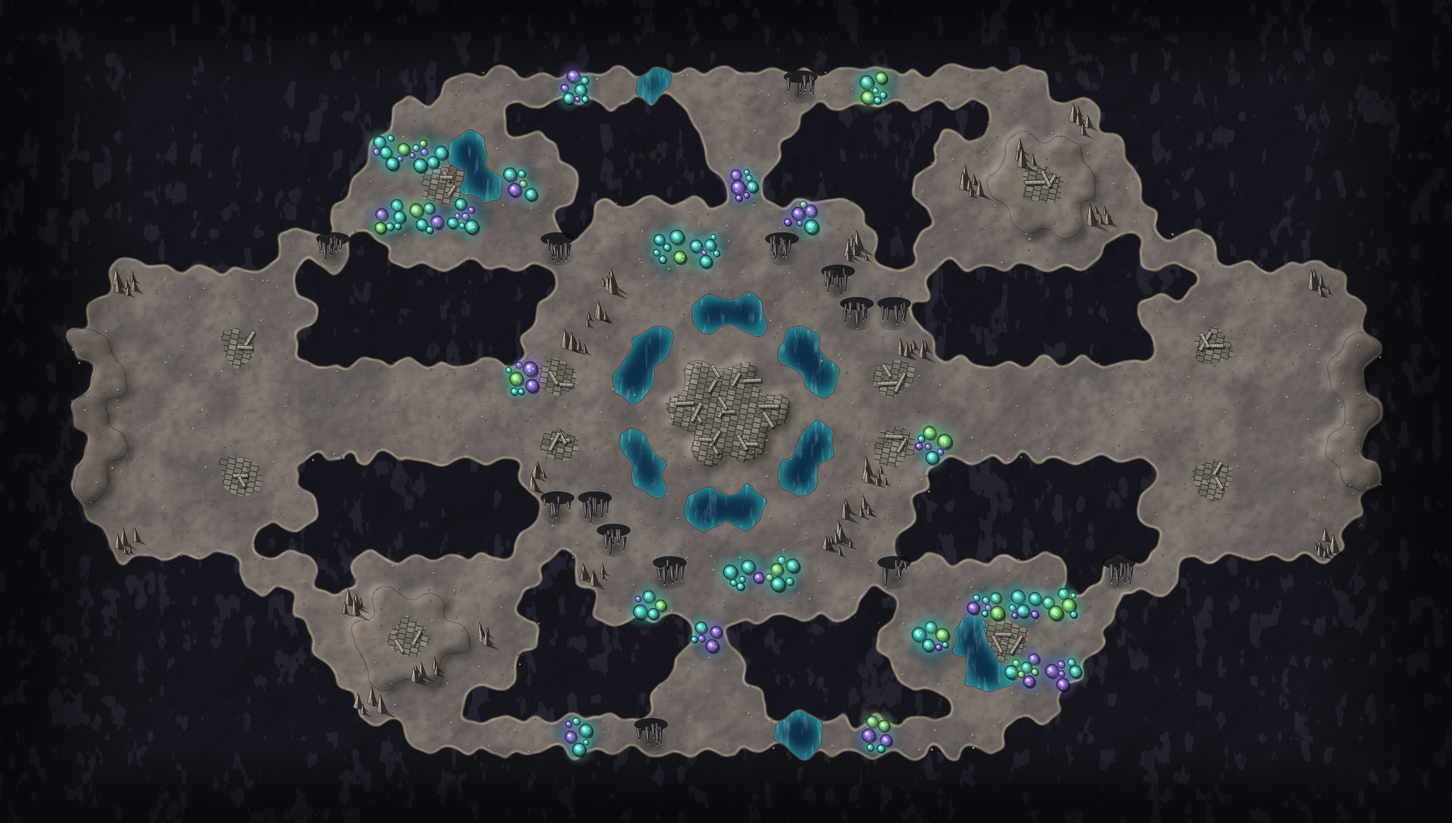
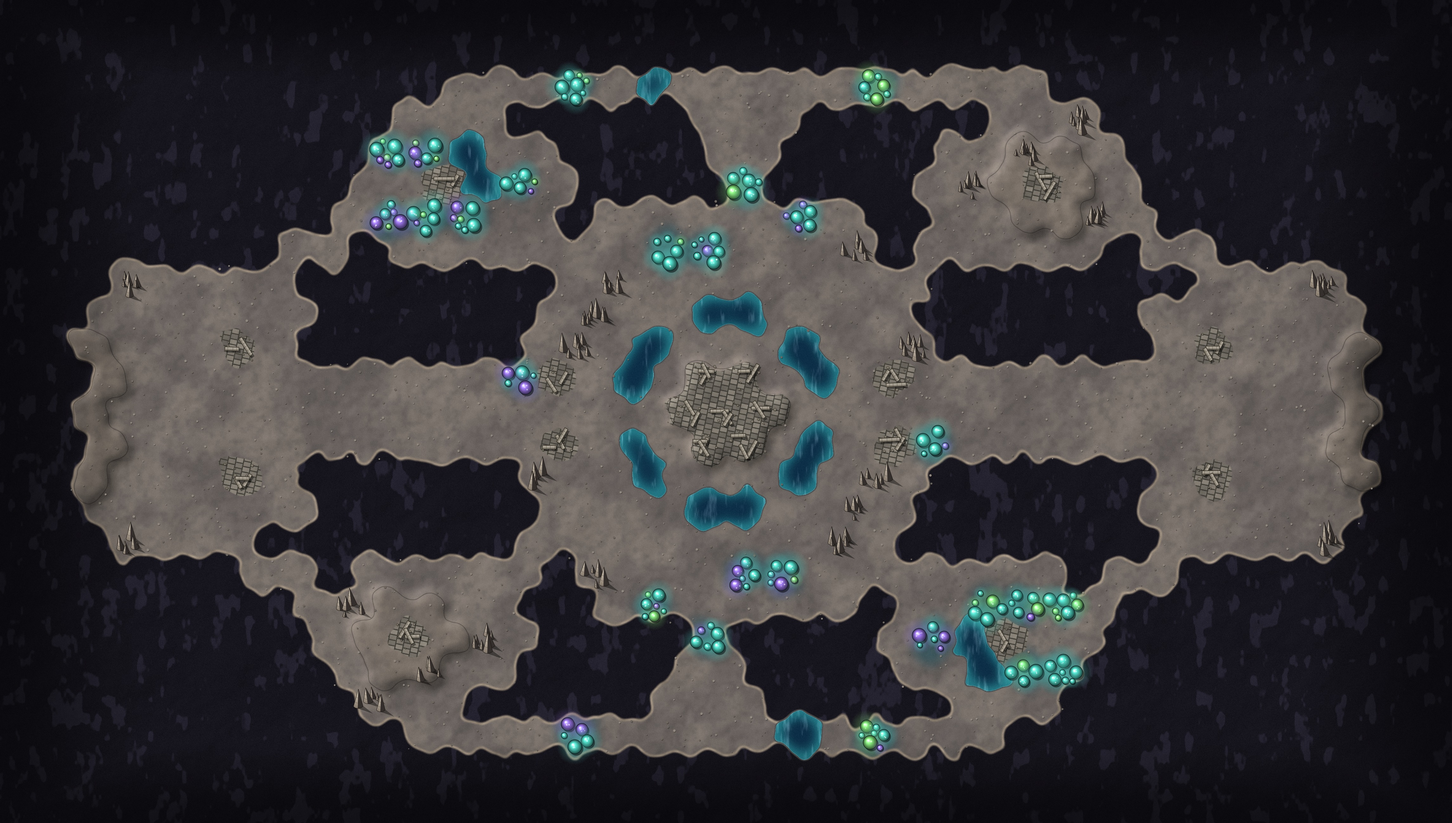
Add siege mode and the stonewatch scenario; remove stalactites

diff --git a/src/engine.js b/src/engine.js
@@ -26,8 +26,6 @@ export const TERRAIN = {
   water:  { name: 'Water',  cost: 2, cover: -1 },         // difficult, exposed, weakens attacks
   // narrow: only one-hex creatures fit between them. Big ones can't stand there (flyers and burrowers may pass).
   spikes: { name: 'Stalagmites', cost: 2, cover: 1, narrow: true },
-  // low: spikes hang from the roof. Walkers pass underneath as on open ground; flyers can't get through.
-  stalactites: { name: 'Stalactites', cost: 1, cover: 0, low: true },
   // Lava: nobody can stand in it or walk through it, but it doesn't block sight, and flyers cross it
   // (even under a cave ceiling). Burrowers pass beneath.
   lava:   { name: 'Lava',   cost: Infinity, cover: 0 },
@@ -80,7 +78,7 @@ const glides = (cls) => !!(CLASSES[cls].fly || CLASSES[cls].burrow);
 // Can such a unit pass with its body over these hexes? Off-board never; rock stops a flyer under a ceiling.
 const canGlide = (map, cls, hexes) => hexes.every((h) => {
   const c = map.cells[key(h.q, h.r)];
-  return c && (CLASSES[cls].burrow || !(TERRAIN[c.t].low || (map.ceiling && c.t === 'rock')));
+  return c && (CLASSES[cls].burrow || !(map.ceiling && c.t === 'rock'));
 });
 
 // ---- Creature sizes ----
@@ -127,7 +125,7 @@ export function fits(state, unit, at = unit) {
   let lo = Infinity, hi = -Infinity;
   for (const c of footprint(unit, at)) {
     const cell = state.map.cells[key(c.q, c.r)];
-    if (!cell || impassable(cell) || (TERRAIN[cell.t].narrow && isBig(unit)) || (TERRAIN[cell.t].low && CLASSES[unit.cls].fly)) return false;
+    if (!cell || impassable(cell) || (TERRAIN[cell.t].narrow && isBig(unit))) return false;
     const other = unitAt(state, c);
     if (other && other.id !== unit.id) return false;
     lo = Math.min(lo, cell.e); hi = Math.max(hi, cell.e);
@@ -139,12 +137,21 @@ export function fits(state, unit, at = unit) {
 // zoc (melee units stop enemies that step next to them).
 //
 // mode: 'eliminate' (default) — destroy the other team.
+//       'siege' — asymmetric. One team defends (map.siege.defender, default 1 = Red) and starts
+//       owning the map's control points (the keep). Points change hands as in 'hold', but only the
+//       attacker scores: 1 per point it owns at the end of each of its turns. The attacker wins on
+//       reaching `target` (map.siege.target, default 2) or by wiping the defenders out; the defender
+//       wins by wiping the attackers out or by lasting to the round limit (map.siege.rounds).
+//       A map that has a `siege` entry is played this way unless another mode is asked for.
 //       'hold' — control points. At the end of each team's turn, any point with a unit standing on
 //       it goes to that unit's team and stays theirs until an enemy stands on it; the team whose
 //       turn is ending then scores 1 per point it owns. First to `target` wins (default 2 per
 //       point); wiping the enemy out still wins too. Points come from map.objectives, or are
 //       placed automatically along the line where the two armies meet.
-export function createGame(map, { maxRounds = 0, fog = false, counters = true, zoc = true, mode = 'eliminate', target = 0, dragons = 'none', monsters, wild } = {}) {
+export function createGame(map, { maxRounds = 0, fog = false, counters = true, zoc = true, mode, target = 0, dragons = 'none', monsters, wild } = {}) {
+  if (!mode) mode = map.siege ? 'siege' : 'eliminate';
+  const siege = mode === 'siege' ? { defender: 1, target: 2, ...(map.siege || {}) } : null;
+  if (!maxRounds && siege?.rounds) maxRounds = siege.rounds;
   if (!maxRounds) {                                // 30, or longer when the armies start far apart
     const mid = (t, a) => map.spawns[t].reduce((sum, p) => sum + p[a], 0) / Math.max(1, map.spawns[t].length);
     const apart = dist(hexRound(mid(0, 'q'), mid(0, 'r')), hexRound(mid(1, 'q'), mid(1, 'r')));
@@ -225,14 +232,16 @@ export function createGame(map, { maxRounds = 0, fog = false, counters = true, z
   }
   for (const u of units) if (u.team === WILD) { u.hq = u.q; u.hr = u.r; }     // home: the middle of its territory
   let objectives = [];
-  if (mode === 'hold') {
+  if (mode === 'hold' || siege) {
     const placed = (map.objectives || []).filter((o) => { const c = cellAt(map, o); return c && !impassable(c); });
     objectives = placed.length ? placed : defaultObjectives(map);
+    if (siege && !placed.length) objectives = objectives.slice(0, 1);
   }
   // roster: both starting line-ups (public knowledge, even under fog).
   const roster = units.map(({ id, team, cls, q, r, o }) => ({ id, team, cls, q, r, o }));
   return { map, units, roster, turn: 0, round: 1, winner: null, maxRounds, fog, counters, zoc,
-    mode, objectives, owners: objectives.map(() => null), score: [0, 0], target: target || 2 * objectives.length };
+    mode, objectives, owners: objectives.map(() => (siege ? siege.defender : null)), score: [0, 0],
+    defender: siege ? siege.defender : null, target: target || (siege ? siege.target : 2 * objectives.length) };
 }
 
 export const clone = (s) => ({ ...s, units: s.units.map((u) => ({ ...u })), owners: s.owners.slice(), score: s.score.slice() });
@@ -773,16 +782,17 @@ export function applyAction(state, a) {
   if (a.type === 'endTurn') {
     let ev = null;
     const ending = state.turn;
-    if (state.mode === 'hold' && ending === WILD) {      // a monster squatting on a point makes it nobody's
+    const points = state.mode === 'hold' || state.mode === 'siege';
+    if (points && ending === WILD) {      // a monster squatting on a point makes it nobody's
       state.objectives.forEach((o, i) => { if (unitAt(state, o)?.team === WILD) state.owners[i] = null; });
-    } else if (state.mode === 'hold') {          // returns {team, captured: [{i, team}], scored}
+    } else if (points) {                         // returns {team, captured: [{i, team}], scored}
       ev = { team: state.turn, captured: [], scored: 0 };
       state.objectives.forEach((o, i) => {
         const holder = unitAt(state, o);
         if (holder && holder.team === WILD) state.owners[i] = null;
         else if (holder && state.owners[i] !== holder.team) { state.owners[i] = holder.team; ev.captured.push({ i, team: holder.team }); }
       });
-      ev.scored = state.owners.filter((o) => o === state.turn).length;
+      ev.scored = state.turn === state.defender ? 0 : state.owners.filter((o) => o === state.turn).length;   // in a siege only the attacker scores
       state.score[state.turn] += ev.scored;
       if (state.score[state.turn] >= state.target) { state.winner = state.turn; return ev; }
     }
@@ -797,6 +807,7 @@ export function applyAction(state, a) {
       if (CLASSES[u.cls].regen) u.hp = Math.min(CLASSES[u.cls].hp, u.hp + CLASSES[u.cls].regen);
     }
     if (state.round > state.maxRounds) {         // out of time: on points if there are any, else a draw
+      if (state.mode === 'siege') { state.winner = state.defender; return ev; }      // the keep held out
       const [s0, s1] = state.score;
       state.winner = s0 > s1 ? 0 : s1 > s0 ? 1 : 'draw';
     }
@@ -912,7 +923,10 @@ export function evaluate(state, team) {
   let v = 0;
   for (const u of state.units) v += (u.team === team ? 1 : u.team === WILD ? -0.25 : -1) * (4 + 6 * u.hp / CLASSES[u.cls].hp) * (CLASSES[u.cls].value || 1);
   if (state.unseen) v += (state.observer === team ? -1 : 1) * state.unseen * 8;   // enemies we can't see still count
-  if (state.mode === 'hold') {                   // points on the board, and points already banked
+  if (state.mode === 'siege') {                  // the attacker wants points and has a clock against it
+    const att = 1 - state.defender, side = team === att ? 1 : -1;
+    v += side * (state.score[att] * 12 + state.owners.filter((o) => o === att).length * 8 - 14 * state.round / state.maxRounds);
+  } else if (state.mode === 'hold') {            // points on the board, and points already banked
     v += (state.score[team] - state.score[1 - team]) * 5;
     for (const o of state.owners) v += o === team ? 4 : o === 1 - team ? -4 : 0;
   }

diff --git a/src/main.js b/src/main.js
@@ -220,14 +220,17 @@ function refresh() {
   $('undo').title = state.fog ? 'Not available under fog of war (a move may reveal enemies)' : '';
   if (state.winner !== null) {
     b.className = 'over';
-    const onPoints = state.mode === 'hold' && state.winner !== 'draw' && state.units.some((u) => u.team !== state.winner);
+    const heldOut = state.mode === 'siege' && state.winner === state.defender && state.units.some((u) => u.team !== state.winner);
+    const onPoints = (state.mode === 'hold' || state.mode === 'siege') && !heldOut && state.winner !== 'draw' && state.units.some((u) => u.team !== state.winner);
     b.textContent = state.winner === 'draw' ? 'Draw — round limit reached'
+      : heldOut ? `${TEAM[state.winner]} wins — the keep held out!`
       : `${TEAM[state.winner]} wins${onPoints ? ` on points, ${state.score[state.winner]}–${state.score[1 - state.winner]}` : ''}!`;
   } else {
     b.className = 't' + state.turn;
     const who = state.turn === E.WILD ? 'neutral monsters' : ais[state.turn] ? AIS[$('ctl' + state.turn).value].label + (thinking ? ', thinking\u2026' : '') : 'your move';
     b.textContent = `Round ${state.round}/${state.maxRounds} — ${TEAM[state.turn]} (${who})`
-      + (state.mode === 'hold' ? `  ·  Blue ${state.score[0]} – ${state.score[1]} Red, first to ${state.target}` : '');
+      + (state.mode === 'hold' ? `  ·  Blue ${state.score[0]} – ${state.score[1]} Red, first to ${state.target}` : '')
+      + (state.mode === 'siege' ? `  ·  ${TEAM[1 - state.defender]} ${state.score[1 - state.defender]}/${state.target} to take the keep · ${TEAM[state.defender]} must hold to round ${state.maxRounds}` : '');
   }
   $('info').textContent = infoText(me);
 }
@@ -275,7 +278,7 @@ function infoText(me) {
   const point = (view.objectives || []).find((o) => o.q === hover.q && o.r === hover.r);
   const tname = t.narrow && !state.map.ceiling ? 'Standing stones' : t.name;     // above ground they are menhirs
   const lines = [`${tname} · height ${c.e} · ` +
-    (t.cost === Infinity ? (c.t === 'lava' ? 'impassable on foot; flyers cross; does not block sight' : 'impassable, blocks sight') : `move cost ${t.cost} · cover ${t.cover}`) + (t.narrow ? ' · too tight for big creatures' : '') + (t.low ? ' · flyers cannot pass' : '')];
+    (t.cost === Infinity ? (c.t === 'lava' ? 'impassable on foot; flyers cross; does not block sight' : 'impassable, blocks sight') : `move cost ${t.cost} · cover ${t.cover}`) + (t.narrow ? ' · too tight for big creatures' : '')];
   if (point) {
     lines.push(`Control point — ${point.owner === null ? 'unclaimed' : 'held by ' + TEAM[point.owner]}`
       + (editing ? '' : '. End a turn standing here to take it.'));
@@ -537,7 +540,8 @@ async function perform(a) {
         state.objectives.forEach((o, i) => {
           if (state.owners[i] === ev.team) view.floats.push({ q: o.q, r: o.r, text: '+1', t0: performance.now() });
         });
-        log(`${TEAM[ev.team]} scores ${ev.scored} — Blue ${state.score[0]}, Red ${state.score[1]} (first to ${state.target})`);
+        log(state.mode === 'siege' ? `${TEAM[ev.team]} holds the keep: ${state.score[ev.team]} of ${state.target}`
+          : `${TEAM[ev.team]} scores ${ev.scored} — Blue ${state.score[0]}, Red ${state.score[1]} (first to ${state.target})`);
       }
       if (ev.captured.length || ev.scored) await sleep(350 / speed());
     }
@@ -662,6 +666,8 @@ async function openSavedMap(name) {
   }
   custom = data;
   R.backdrop = bd;
+  // A siege map is played as a siege; leaving one goes back to plain elimination.
+  if (data.siege) $('mode').value = 'siege'; else if ($('mode').value === 'siege') $('mode').value = 'eliminate';
   setOverlay(data.backdrop?.overlay ?? 0.4);
   if (bd) setView(true);
   store('map', name);
@@ -694,7 +700,7 @@ $('mapSel').addEventListener('change', (ev) => {
 // ---- Editor ----
 
 const BRUSHES = [
-  ['Terrain', [['Grass', 't:grass'], ['Forest', 't:forest'], ['Ruins', 't:ruins'], ['Stalagmites / stones', 't:spikes'], ['Stalactites', 't:stalactites'], ['Water', 't:water'], ['Lava', 't:lava'], ['Rock', 't:rock']]],
+  ['Terrain', [['Grass', 't:grass'], ['Forest', 't:forest'], ['Ruins', 't:ruins'], ['Stalagmites / stones', 't:spikes'], ['Water', 't:water'], ['Lava', 't:lava'], ['Rock', 't:rock']]],
   ['Height', [['0', 'e:0'], ['1', 'e:1'], ['2', 'e:2'], ['3', 'e:3']]],
   ['Markers (click to place or remove)', [['Blue spawn', 'spawn:0'], ['Red spawn', 'spawn:1'], ['Neutral monster', 'spawn:2'], ['Control point', 'objective']]],
   ['Board shape', [['Add hex', 'add'], ['Remove hex', 'remove']]],

diff --git a/arena.js b/arena.js
@@ -1,10 +1,13 @@
 // Headless AI-vs-AI tournament.
-//   node arena.js <aiA> <aiB> [--games 20] [--seed 1] [--map name-or-path] [--fog] [--no-counters] [--no-zoc] [--hold] [--dragons] [--monsters | --no-monsters] [--wild | --no-wild] [--size 6]
+//   node arena.js <aiA> <aiB> [--games 20] [--seed 1] [--map name-or-path] [--fog] [--no-counters] [--no-zoc] [--hold | --siege | --eliminate] [--dragons] [--monsters | --no-monsters] [--wild | --no-wild] [--size 6]
 // Each map is played twice with sides swapped, so first-move and terrain advantage cancel out.
 // --map uses a saved map (maps/<name>.json) for every game instead of generated ones.
 // --fog plays with fog of war: each AI is only shown what its own team can see.
 // --no-counters and --no-zoc switch off counter-attacks and zones of control.
-// --hold plays the hold-the-points objective instead of elimination.
+// --hold plays the hold-the-points objective instead of elimination; --siege plays any map as a siege
+// (Red defends). A map with its own siege settings is played as a siege unless --eliminate or --hold is given.
+// The last line reports wins by side (Blue / Red), whoever played them: with the same AI on both
+// sides, that is how lopsided the scenario is.
 // --dragons gives each side a Dragon as well.
 // --monsters gives each side the cave monsters (spider, bats, worm) on any map; --no-monsters removes
 // them from a map that has its own. Default: whatever the map says.
@@ -16,10 +19,10 @@ import { AIS } from './src/ai/index.js';
 
 const args = process.argv.slice(2);
 const opt = (name, def) => { const i = args.indexOf('--' + name); return i >= 0 ? +args[i + 1] : def; };
-const SWITCHES = ['--fog', '--no-counters', '--no-zoc', '--hold', '--dragons', '--monsters', '--no-monsters', '--wild', '--no-wild'];  // flags that take no value
+const SWITCHES = ['--fog', '--no-counters', '--no-zoc', '--hold', '--siege', '--eliminate', '--dragons', '--monsters', '--no-monsters', '--wild', '--no-wild'];  // flags that take no value
 const fog = args.includes('--fog');
 const rules = { fog, counters: !args.includes('--no-counters'), zoc: !args.includes('--no-zoc'),
-  mode: args.includes('--hold') ? 'hold' : 'eliminate', dragons: args.includes('--dragons') ? 'both' : 'none',
+  mode: args.includes('--hold') ? 'hold' : args.includes('--siege') ? 'siege' : args.includes('--eliminate') ? 'eliminate' : undefined, dragons: args.includes('--dragons') ? 'both' : 'none',
   monsters: args.includes('--no-monsters') ? [] : args.includes('--monsters') ? PACKS.cave : undefined,
   wild: args.includes('--no-wild') ? [] : args.includes('--wild') ? 'auto' : undefined };
 const [nameA, nameB] = args.filter((a, i) => !a.startsWith('--') && !((args[i - 1] || '').startsWith('--') && !SWITCHES.includes(args[i - 1])));
@@ -52,6 +55,7 @@ export function playGame(map, makers, game = 0) {
 }
 
 const score = { [nameA]: 0, [nameB]: 0, draw: 0 };
+const side = [0, 0];
 const time = [0, 0];
 let rounds = 0;
 for (let g = 0; g < games; g++) {
@@ -60,6 +64,7 @@ for (let g = 0; g < games; g++) {
   const map = mapData ? mapFromData(mapData) : generateMap(seed0 + (g >> 1), size);
   const res = playGame(map, names.map((n) => AIS[n]), g);
   score[res.winner === 'draw' ? 'draw' : names[res.winner]]++;
+  if (res.winner !== 'draw') side[res.winner]++;
   rounds += res.rounds;
   time[0] += res.ms[swap ? 1 : 0];
   time[1] += res.ms[swap ? 0 : 1];
@@ -68,3 +73,4 @@ console.log(`${games} games${fog ? ' with fog of war' : ''}, avg ${(rounds / gam
 console.log(`  ${nameA}: ${score[nameA]} wins  (${(time[0] / games).toFixed(0)} ms thinking/game)`);
 if (nameA !== nameB) console.log(`  ${nameB}: ${score[nameB]} wins  (${(time[1] / games).toFixed(0)} ms thinking/game)`);
 console.log(`  draws: ${score.draw}`);
+console.log(`  by side: Blue ${side[0]}, Red ${side[1]}`);

diff --git a/src/paint.js b/src/paint.js
@@ -454,33 +454,6 @@ export function paintBackdrop(map, { hexPx = 140, seed = 7, biome = 'meadow' } =
 
   }
 
-  // Stalactites: points hanging from the roof, seen from above — a dark patch of ceiling at the
-  // top of the hex with spikes dropping from it toward the viewer, and their shadow on the floor.
-  for (const c of sorted) {
-    if (c.t !== 'stalactites') continue;
-    const [cx, cy] = centre(c);
-    const sh = ctx.createRadialGradient(cx, cy + s * 0.25, s * 0.05, cx, cy + s * 0.25, s * 0.8);
-    sh.addColorStop(0, 'rgba(0,0,0,0.42)'); sh.addColorStop(1, 'rgba(0,0,0,0)');
-    ctx.fillStyle = sh; ctx.beginPath(); ctx.ellipse(cx, cy + s * 0.25, s * 0.8, s * 0.5, 0, 0, 6.3); ctx.fill();
-    const hang = [];
-    for (let i = 0, n = 7 + Math.floor(rnd() * 3); i < n; i++) hang.push([cx + (rnd() - 0.5) * s * 1.25, cy - s * (0.62 - rnd() * 0.5), s * (0.07 + rnd() * 0.07), s * (0.35 + rnd() * 0.5)]);
-    hang.sort((p, q) => p[1] - q[1]);
-    ctx.fillStyle = 'rgba(14,13,18,0.82)';                        // the ceiling they hang from
-    ctx.beginPath(); ctx.ellipse(cx, cy - s * 0.5, s * 0.78, s * 0.3, 0, 0, 6.3); ctx.fill();
-    for (const [x, y, w, h] of hang) {
-      const tipX = x + (rnd() - 0.5) * w, tipY = y + h;
-      ctx.fillStyle = 'rgb(46,42,48)';                            // shaded side
-      ctx.beginPath(); ctx.moveTo(x, y - w * 0.3); ctx.lineTo(x + w, y); ctx.lineTo(tipX, tipY); ctx.closePath(); ctx.fill();
-      const lit = ctx.createLinearGradient(x, y, tipX, tipY);
-      lit.addColorStop(0, 'rgb(92,84,86)'); lit.addColorStop(1, 'rgb(196,186,172)');
-      ctx.fillStyle = lit;                                        // lit side, palest at the wet tip
-      ctx.beginPath(); ctx.moveTo(x - w, y); ctx.lineTo(x, y - w * 0.3); ctx.lineTo(tipX, tipY); ctx.closePath(); ctx.fill();
-      ctx.strokeStyle = 'rgba(8,6,10,0.85)'; ctx.lineWidth = 1.2; ctx.lineJoin = 'round';
-      ctx.beginPath(); ctx.moveTo(x - w, y); ctx.lineTo(tipX, tipY); ctx.lineTo(x + w, y); ctx.stroke();
-      ctx.fillStyle = 'rgba(190,235,255,0.85)'; ctx.beginPath(); ctx.arc(tipX, tipY + 1.5, Math.max(1, w * 0.16), 0, 6.3); ctx.fill();   // a drip
-    }
-  }
-
   // Trees, back to front. A few large crowns per hex with smaller ones in the gaps; each crown
   // is built from overlapping leaf clumps, darkest at the bottom-right and lightest top-left.
   const trees = [];

diff --git a/src/ai/greedy.js b/src/ai/greedy.js
@@ -27,7 +27,7 @@ function scoreOption(state, u, o, enemies, field) {
     }
     s -= spell.cooldown * 2;                                          // don't burn a long cooldown for a marginal gain
   }
-  if (state.mode === 'hold') {                                        // ending the turn on a point we don't own takes it
+  if (state.mode === 'hold' || state.mode === 'siege') {              // ending the turn on a point we don't own takes it
     const on = footprint(u, o);                                       // big creatures hold a point with any hex
     const i = state.objectives.findIndex((p) => on.some((c) => c.q === p.q && c.r === p.r));
     if (i >= 0 && state.owners[i] !== u.team) s += state.owners[i] === null ? 30 : 42;
@@ -43,10 +43,17 @@ function scoreOption(state, u, o, enemies, field) {
 export function bestAction(state, noise = 0, rng = Math.random, goals = []) {
   const enemies = state.units.filter((u) => u.team !== state.turn);
   // Advance on enemies, on fog goals, and on any control point that isn't ours yet.
-  const points = state.mode === 'hold' ? state.objectives.filter((p, i) => state.owners[i] !== state.turn) : [];
+  const pointMode = state.mode === 'hold' || state.mode === 'siege';
+  const points = pointMode ? state.objectives.filter((p, i) => state.owners[i] !== state.turn) : [];
   // Neutral monsters are fought when they are in the way, but not marched on.
-  const foes = enemies.filter((u) => u.team === 1 - state.turn);
-  const toward = [...foes, ...goals, ...points];
+  let foes = enemies.filter((u) => u.team === 1 - state.turn);
+  let home = [];
+  if (state.mode === 'siege' && state.turn === state.defender) {
+    // Defending: stay by the keep and meet whoever comes within reach of it, rather than marching out.
+    home = state.objectives;
+    foes = foes.filter((u) => state.objectives.some((p) => dist(p, u) <= 5));
+  }
+  const toward = [...foes, ...goals, ...points, ...(foes.length ? [] : home)];
   const field = distanceField(state.map, toward.length ? toward : enemies);
   const cands = [];
   for (const u of state.units) {

diff --git a/src/mapgen.js b/src/mapgen.js
@@ -27,6 +27,7 @@ export function generateMap(seed = 1, radius = 6) {
 //     objectives: [{q, r}],          control points for the "hold" mode (optional)
 //     wild: [{q, r, cls}],                   neutral monsters and where they lair (optional)
 //     monsters: ['spider', 'bat', 'worm'],   extra units each side gets on this map (optional)
+//     siege: { defender: 1, target: 2, rounds: 16 },   an asymmetric scenario: see createGame's 'siege' mode (optional)
 //     biome: 'meadow' | 'snow' | 'desert' | 'cave',   the art style it was painted in; picks the weather (optional)
 //     ceiling: true,                 a cave: flyers can't cross rock (optional)
 //     backdrop: { image: 'file.png', hexPx, ox, oy } | null }
@@ -38,7 +39,7 @@ export function mapFromData(d) {
   const spawns = [0, 1].map((t) => (d.spawns?.[t] || []).map((s) => ({ ...s })));
   const objectives = (d.objectives || []).map(({ q, r }) => ({ q, r }));
   return { cells, spawns, objectives, ceiling: !!d.ceiling, monsters: Array.isArray(d.monsters) ? d.monsters.slice() : null,
-    wild: (d.wild || []).map((w) => ({ ...w })), biome: d.biome || null, losCache: new Map(), seed: d.name || 'custom', name: d.name || null };
+    wild: (d.wild || []).map((w) => ({ ...w })), siege: d.siege ? { ...d.siege } : null, biome: d.biome || null, losCache: new Map(), seed: d.name || 'custom', name: d.name || null };
 }
 
 export function mapToData(map, name = null, backdrop = null) {
@@ -50,6 +51,7 @@ export function mapToData(map, name = null, backdrop = null) {
     objectives: (map.objectives || []).map(({ q, r }) => ({ q, r })),
     ceiling: !!map.ceiling,
     ...(map.biome ? { biome: map.biome } : {}),
+    ...(map.siege ? { siege: { ...map.siege } } : {}),
     ...(map.monsters ? { monsters: map.monsters.slice() } : {}),
     ...(map.wild?.length ? { wild: map.wild.map(({ q, r, cls }) => ({ q, r, cls })) } : {}),
     backdrop,

diff --git a/index.html b/index.html
@@ -68,7 +68,7 @@
     <label title="How strongly the hex grid is drawn over the map. All the way left hides it.">Grid lines <input id="grid" type="range" min="0" max="1" step="0.05" value="1"></label>
     <label title="Dark lines on the high side of every slope (thin) and cliff (thick) in the top-down view. The height numbers stay either way."><span><input id="edges" type="checkbox" checked> Height edges</span></label>
     <label title="Falling snow, blowing sand, drifting cloud shadows, embers over lava. Purely decorative."><span><input id="weather" type="checkbox" checked> Weather</span></label>
-    <label>Objective <select id="mode"><option value="eliminate">Eliminate</option><option value="hold">Hold the points</option></select></label>
+    <label>Objective <select id="mode"><option value="eliminate">Eliminate</option><option value="hold">Hold the points</option><option value="siege">Siege (Red defends)</option></select></label>
     <label title="A Dragon fills seven hexes, flies over anything, and breathes a cone of fire.">Dragons <select id="dragons"><option value="both">One each</option><option value="red">Red only</option><option value="blue">Blue only</option><option value="none">None</option></select></label>
     <label title="Extra creatures for both sides. Cave monsters: a web-spinning spider, a fast flying bat swarm and a rock worm that burrows through walls.">Monsters <select id="monsters"><option value="map">Map's own</option><option value="cave">Cave monsters</option><option value="none">None</option></select></label>
     <label title="Monsters that belong to neither side. Each guards the ground around its lair and attacks anyone who comes close; they move after Red.">Neutrals <select id="wild"><option value="map">Map's own</option><option value="auto">Add some</option><option value="none">None</option></select></label>

diff --git a/src/render.js b/src/render.js
@@ -10,7 +10,6 @@ const TOP = {
   forest: ['#5b9a48', '#6ca952', '#84b65d', '#a0c06e'],
   ruins: ['#9a9a7c', '#a8a888', '#b6b694', '#c4c4a2'],
   spikes: ['#8d8f86', '#9a9c92', '#a8aa9f', '#b6b8ac'],
-  stalactites: ['#6f7480', '#7b808c', '#878c98', '#9398a4'],
   rock: ['#7d8a80', '#8a968b', '#98a397', '#a6b0a3'],
   water: ['#4a93cf', '#4a93cf', '#4a93cf', '#4a93cf'],
   lava: ['#e8641c', '#e8641c', '#e8641c', '#e8641c'],
@@ -775,13 +774,6 @@ export class Renderer {
         ctx.fillStyle = '#6c6f6a'; ctx.fill(); ctx.strokeStyle = 'rgba(0,0,0,0.45)'; ctx.stroke();
         ctx.beginPath(); ctx.moveTo(tx - w, ty); ctx.lineTo(tx - w * 0.1, ty - h); ctx.lineTo(tx - w * 0.1, ty); ctx.closePath();
         ctx.fillStyle = '#b4b7ae'; ctx.fill();
-      }
-    } else if (c.t === 'stalactites') {              // hanging points, with their shadow on the floor
-      ctx.fillStyle = 'rgba(0,0,0,0.25)'; ctx.beginPath(); ctx.ellipse(x, y + S * 0.15, S * 0.5, S * 0.2, 0, 0, 6.3); ctx.fill();
-      for (const [dx, k] of [[-0.42, 0.7], [-0.15, 1.1], [0.14, 0.85], [0.4, 0.6]]) {
-        const tx = x + S * dx, top = y - S * 0.75, h = S * 0.75 * k, w = S * 0.13;
-        ctx.beginPath(); ctx.moveTo(tx - w, top); ctx.lineTo(tx + w, top); ctx.lineTo(tx + w * 0.1, top + h); ctx.closePath();
-        ctx.fillStyle = '#4c505a'; ctx.fill(); ctx.strokeStyle = 'rgba(0,0,0,0.5)'; ctx.stroke();
       }
     } else if (c.t === 'rock') {
       const P = (pts, col) => {

diff --git a/README.md b/README.md
@@ -59,6 +59,10 @@ crossed on foot only by a wide basalt bridge in the middle and a narrow span to 
 each side, a watchtower north and south each held by a neutral ogre, mountain ridges, pine belts and two cairn rings
 with a troll in each. Five control points, armies of ten.
 
+`stonewatch` is the siege scenario (345 hexes, meadow): Red's five hold a cliff-sided hill fort with battlements, a
+two-hex gate ramp behind a moat and a one-hex postern; Blue attacks with twelve and must hold the keep at the end of
+two of its turns within 20 rounds. Tuned without dragons to roughly even odds between two Plan samplers.
+
 Four ready-made maps are included: `stonebridge` (meadow, a river with a ruined causeway),
 `frostmere` (snow, a frozen lake around an island fort) and `sunspire` (desert, a cliff-sided temple
 mesa climbed only by ramps on its north and south, with an oasis well toward each army) and `gloomhollow` (a cave: army chambers, a wide hall into a
@@ -70,7 +74,7 @@ The map file format is documented at the top of the "Map files" section in `src/
 ## Rules
 
 - Each turn, every unit may move once and then attack (or wait). Eliminate the other team; round 30 is a draw.
-- **Terrain** — forest: move cost 2, cover 1 · ruins: cover 2 · stalagmites (painted as standing stones above ground): move cost 2, cover 1, and only one-hex creatures fit among them (big ones can't stand there; flyers and burrowers may pass) · water: move cost 2, occupant takes +1 and deals -1 · stalactites: open ground for walkers, but flyers can't pass or land · lava: impassable on foot and nobody can stand in it, but it does not block sight and flyers cross it · rock: impassable, blocks sight.
+- **Terrain** — forest: move cost 2, cover 1 · ruins: cover 2 · stalagmites (painted as standing stones above ground): move cost 2, cover 1, and only one-hex creatures fit among them (big ones can't stand there; flyers and burrowers may pass) · water: move cost 2, occupant takes +1 and deals -1 · lava: impassable on foot and nobody can stand in it, but it does not block sight and flyers cross it · rock: impassable, blocks sight.
 - **Height** (0–3) — climbing costs +1 move, a 2-level step is a cliff. Attacks get +1 damage per level above the target (-1 per level below, max 2). Archers get +1 range from high ground. Hills block line of sight.
 - **Objective** — *Eliminate* (default), or *Hold the points*: the map has control points (ringed, with a
   pennant). At the end of each team's turn, a point with a unit standing on it goes to that unit's team and
@@ -78,6 +82,14 @@ The map file format is documented at the top of the "Map files" section in `src/
   First to 2 per point wins (6 with three points), as does wiping the enemy out; at the round limit the
   higher score wins. Maps can place their own points (editor: Markers → Control point); otherwise three are
   placed along the line where the armies meet. Arena: `--hold`.
+- **Siege** (asymmetric) — one side defends and starts owning the map's control points (the keep). Points change hands
+  as in Hold the points, but only the attacker scores: 1 per point it owns at the end of each of its turns. The attacker
+  wins on reaching the target (default 2) or by wiping the defenders out; the defender wins by wiping the attackers out
+  or by lasting to the round limit. A map sets it up with `"siege": { "defender": 1, "target": 2, "rounds": 20 }` and is
+  then played as a siege by default; "Siege (Red defends)" in the sidebar or `--siege` in the arena plays any map that way.
+  Maps and armies need not be symmetric: every spawn can name its class. The arena's last line reports wins by side, so
+  running one AI against itself (`node arena.js sampler sampler --map stonewatch`) shows how lopsided a scenario is.
+  `evaluate` and Greedy know the mode: the attacker is on a clock, and a Greedy defender stays by the keep.
 - **Damage** is deterministic: `atk + height - cover`, minimum 1. No hit rolls.
 - **Counter-attacks** — a unit that survives an attack hits back with its own attack if the attacker is
   within its range and sight (so melee answers melee, archers answer shots from 2+ hexes, and an archer
